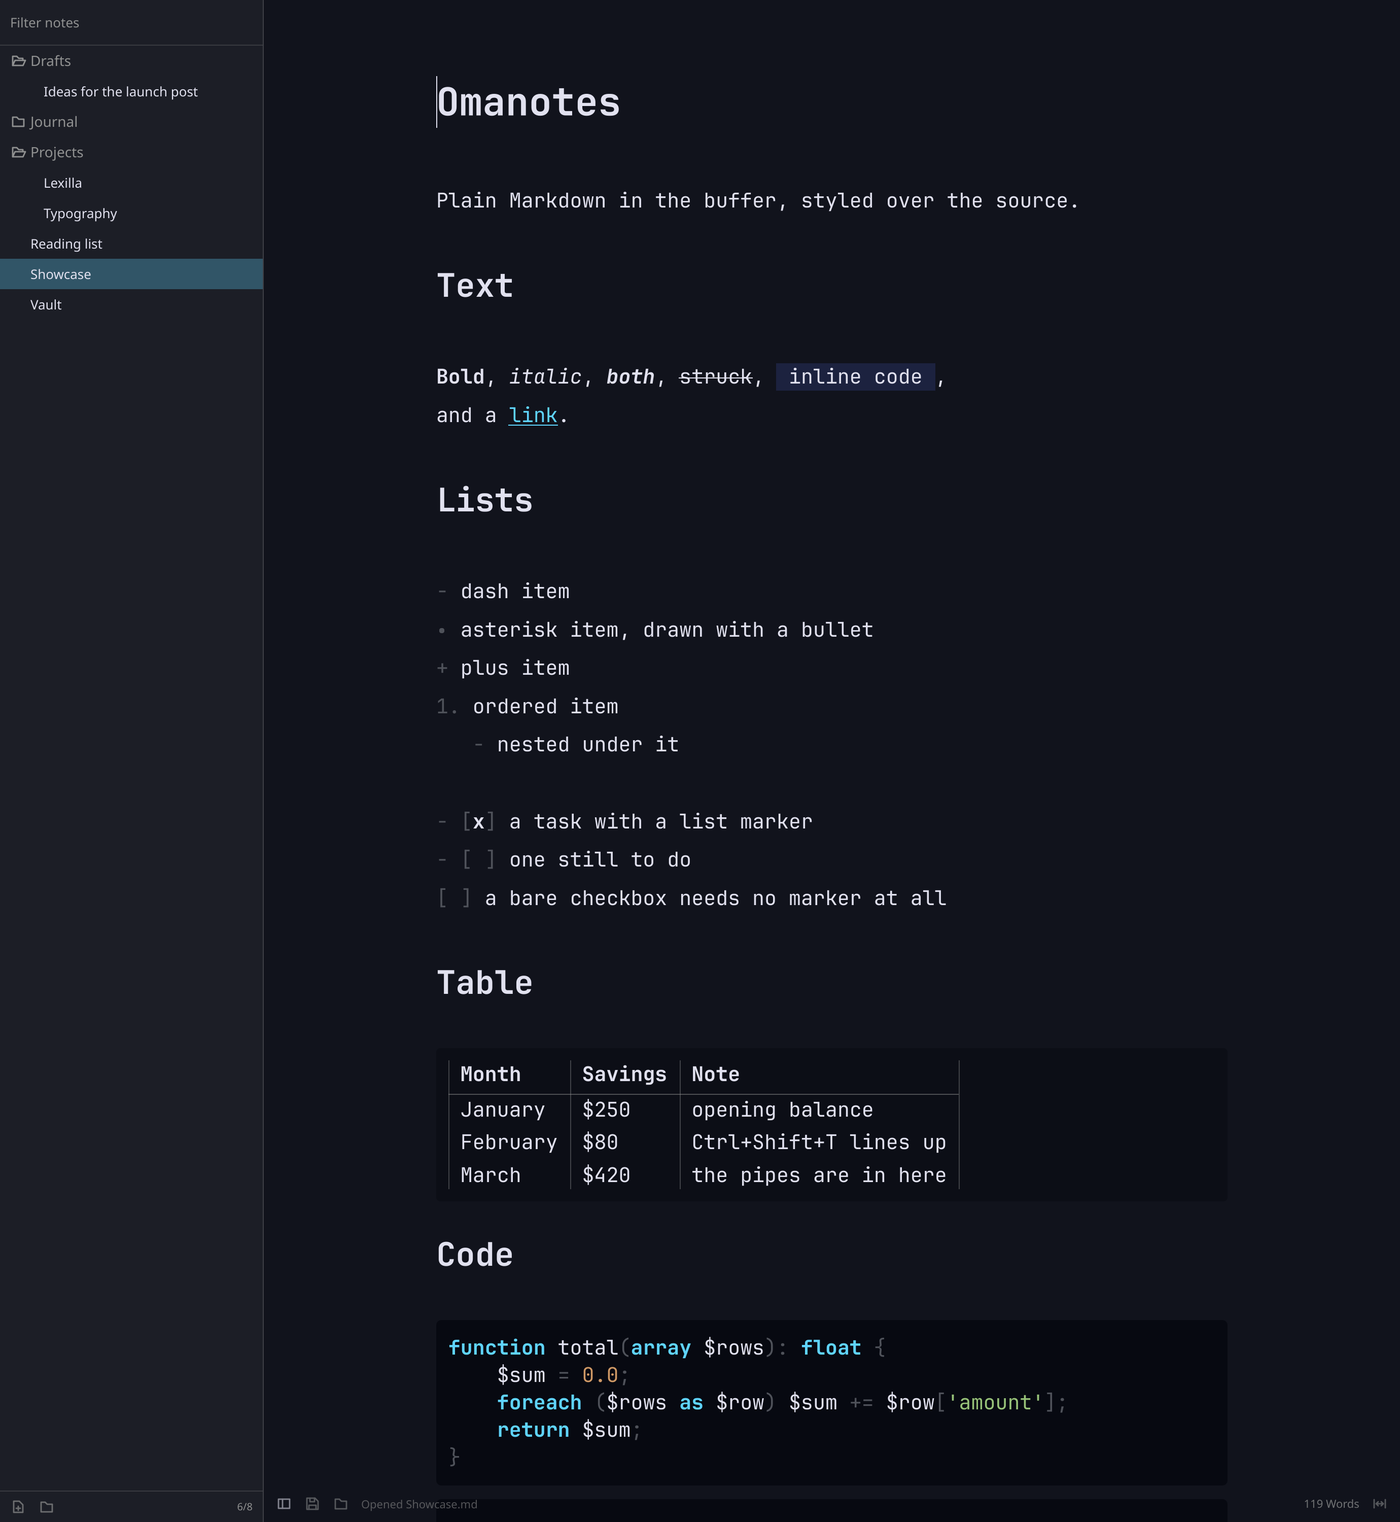
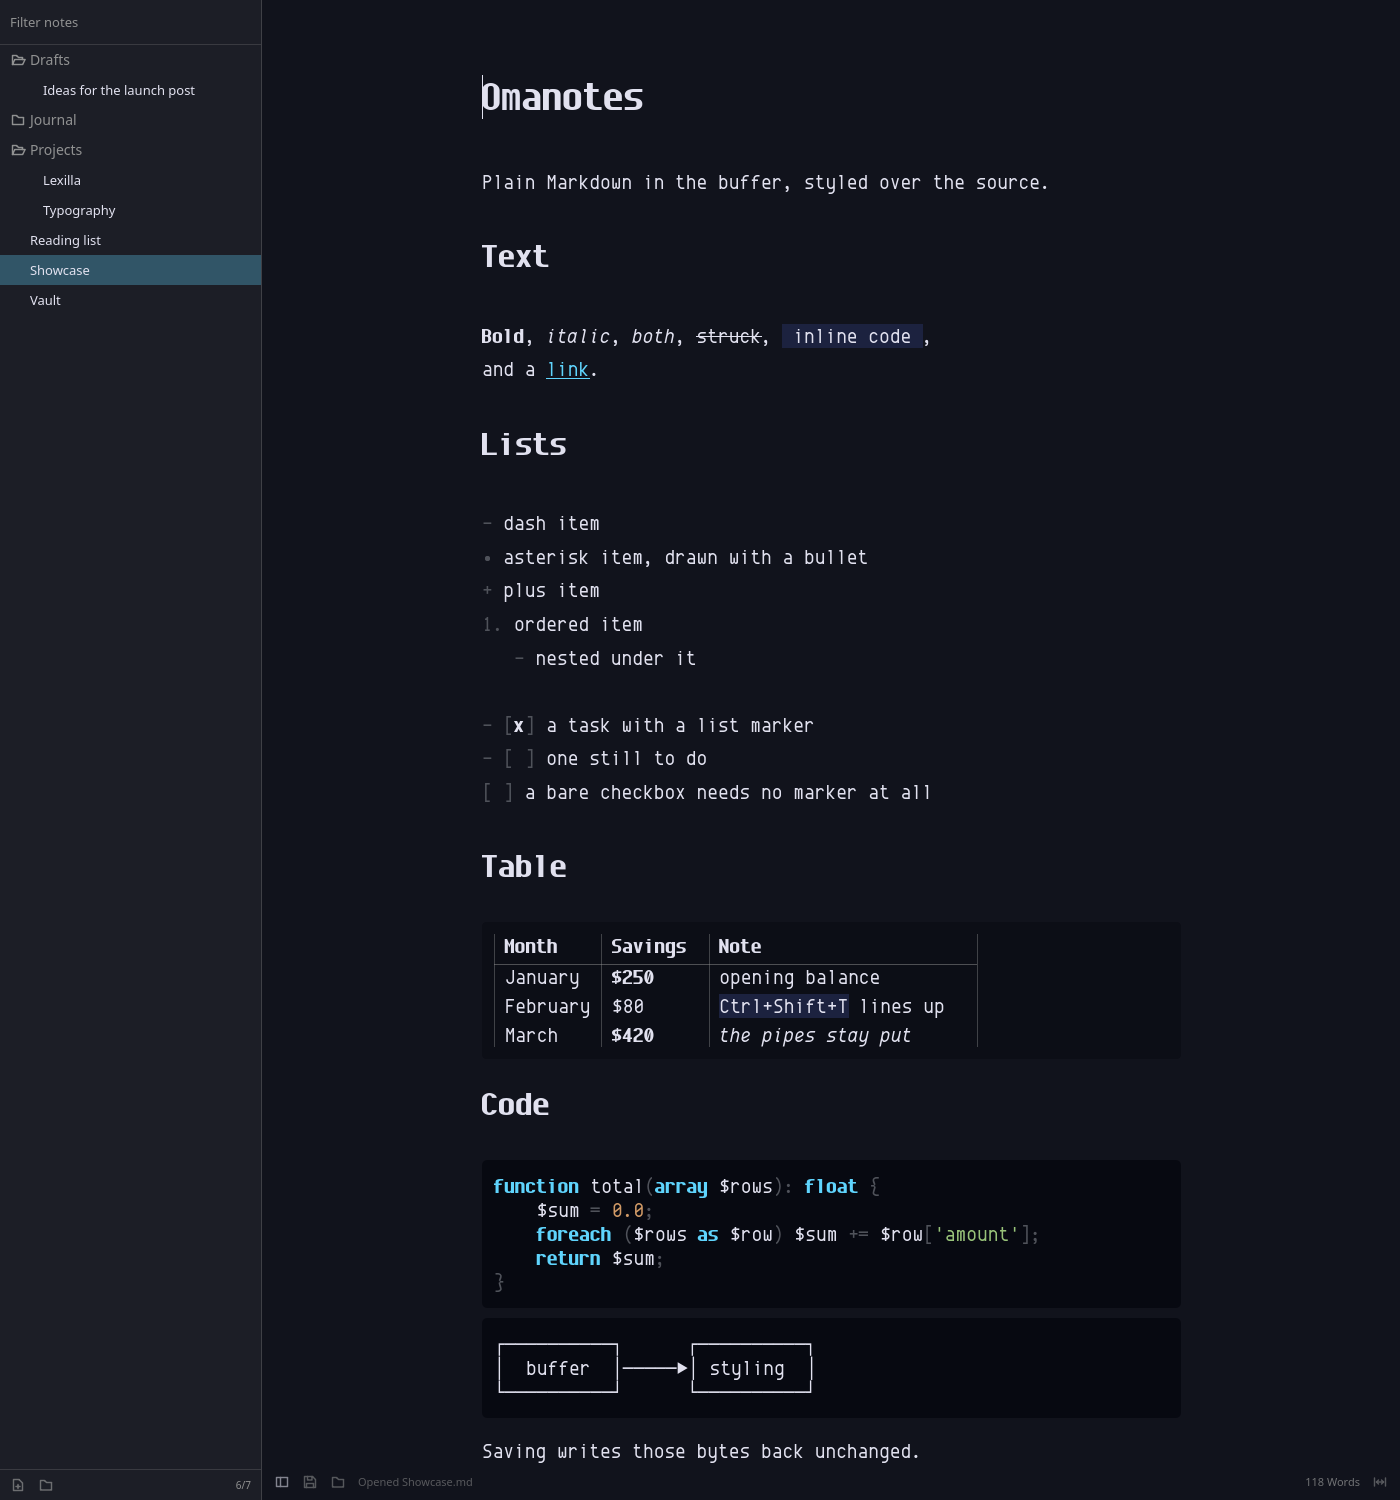
Style what is inside a table cell
A cell was left as source, so a table of `**24000**` and `**dynamic**`
read as asterisks. The reason was alignment: a column only lines up
while every glyph on the row has the same advance.

Styling turns out not to be the threat. Every monospace family measured
keeps one advance across all four of its faces, JetBrains Mono NL and
the system fonts alike, so bold and italic move nothing. What moves a
pipe is the markers leaving the line, so they do not leave it: each one
is dropped to zero width and the width it gave up is added to the space
the aligner left at the end of its own cell. The cell's content starts
where an unstyled cell's does, the pipe stays where it was, and the
slack collects in padding that was already there.

The width goes to one space as a whole multiple of its own advance
rather than being spread over the run as a fraction: Qt rounds an
advance to a 64th of a pixel, and a fraction per row leaves a column
visibly ragged. A percentage of the glyph's own advance also needs no
metric, so it holds at any zoom. A row nobody has aligned has no padding
to give, so its markers keep their width and only stop painting.

The arithmetic is per cell, between one pipe and the next, so what is
folded and what is widened are always in the same cell. A pipe inside a
code span splits a cell in two and each half still balances.

Highlighting 1,500 marked-up table rows costs 84 ms against 54, which is
20 microseconds a row.

diff --git a/src/markdownhighlighter.cpp b/src/markdownhighlighter.cpp
@@ -486,6 +486,16 @@ void MarkdownHighlighter::rebuildFormats() {
     m_tableHeaderFormat = m_tableFormat;
     m_tableHeaderFormat.setFontWeight(QFont::Bold);
 
+    // What a marker inside a table cell has to give back to come out at zero
+    // width. Measured in the table's own family, not the editor's: the two are
+    // often different fonts, and a metric off by a fraction of a pixel per
+    // marker walks the pipes out of line down a long table.
+    QFont tableMarkerFont;
+    tableMarkerFont.setFamilies(m_tableFamilies);
+    tableMarkerFont.setPointSizeF(1.0);
+    m_tableMarkerSpacing =
+        -QFontMetricsF(tableMarkerFont).horizontalAdvance(QLatin1Char('*'));
+
     m_quoteFormat = QTextCharFormat();
     m_quoteFormat.setForeground(quote);
     m_quoteFormat.setFontItalic(true);
@@ -672,25 +682,121 @@ bool MarkdownHighlighter::highlightTableRow(const QString &text) {
     }
 
     // The row above a separator is the header.
-    if (isTableSeparator(currentBlock().next().text())) {
-        setFormat(0, text.length(), m_tableHeaderFormat);
-        for (int i = 0; i < text.length(); ++i) {
-            if (text.at(i) == QLatin1Char('|'))
-                setFormat(i, 1, pipeFormat);
-        }
-        return true;
-    }
+    const bool header = isTableSeparator(currentBlock().next().text());
+    setFormat(0, text.length(), header ? m_tableHeaderFormat : m_tableFormat);
 
-    // Columns only line up while nothing on the line changes an advance width,
-    // so inline styling does not run over a table row. inlineMarkup() skips
-    // table rows for the same reason, which keeps the caret and the hidden
-    // markers in agreement.
-    setFormat(0, text.length(), m_tableFormat);
+    // A monospace font has one advance across all four of its faces, so bold
+    // and italic move nothing on their own; what would move a pipe is the
+    // markers going away, and foldMarkersInCell() gives that width back. While
+    // the caret is in the table the whole of it reads as source instead.
+    if (!active)
+        highlightTableMarkup(text);
+
     for (int i = 0; i < text.length(); ++i) {
         if (text.at(i) == QLatin1Char('|'))
             setFormat(i, 1, pipeFormat);
     }
     return true;
+}
+
+void MarkdownHighlighter::highlightTableMarkup(const QString &text) {
+    const QList<InlineMarkup> markup = inlineMarkup(text);
+    QList<Span> markers;
+    for (const InlineMarkup &item : markup) {
+        if (item.kind == InlineKind::Heading)
+            continue;
+
+        QTextCharFormat merged = format(item.content.start);
+        switch (item.kind) {
+        case InlineKind::Bold:
+            merged.setFontWeight(QFont::Bold);
+            break;
+        case InlineKind::Italic:
+            merged.setFontItalic(true);
+            break;
+        case InlineKind::BoldItalic:
+            merged.setFontWeight(QFont::Bold);
+            merged.setFontItalic(true);
+            break;
+        case InlineKind::Strikethrough:
+            merged.setFontStrikeOut(true);
+            break;
+        case InlineKind::Link:
+        case InlineKind::Image:
+            merged.setFontUnderline(true);
+            merged.setForeground(m_linkFormat.foreground());
+            break;
+        case InlineKind::Code:
+            // The chip, but not the code font: a family with a different
+            // advance would take the column with it.
+            merged.setBackground(m_codeFormat.background());
+            break;
+        case InlineKind::Heading:
+            break;
+        }
+        setFormat(item.content.start, item.content.length, merged);
+        for (const Span &marker : item.markers) {
+            if (marker.length > 0)
+                markers.append(marker);
+        }
+    }
+
+    // A cell runs from one pipe to the next.
+    int cellStart = 0;
+    for (int i = 0; i <= text.length(); ++i) {
+        if (i < text.length() && text.at(i) != QLatin1Char('|'))
+            continue;
+        foldMarkersInCell(text, cellStart, i, markers);
+        cellStart = i + 1;
+    }
+}
+
+// Markup in a table cell has to disappear without moving a pipe. Dropping the
+// markers to zero width would pull the rest of the row left, so the width they
+// give up is handed to the space the aligner left at the end of the cell: every
+// cell still starts at its column, whether or not it is styled, and the slack
+// collects where padding already is.
+//
+// That space is widened by a whole multiple of its own advance rather than by a
+// pixel figure, so the arithmetic needs no metric and holds at any zoom. Spread
+// over the whole run of padding it would be a fraction instead, and Qt rounds an
+// advance to a 64th of a pixel: a few rows of that and the column is ragged. A
+// cell with no padding to give (a row nobody has aligned) keeps its markers at
+// full width, painted transparent.
+void MarkdownHighlighter::foldMarkersInCell(const QString &text, int start, int end,
+                                            const QList<Span> &markers) {
+    int hidden = 0;
+    for (const Span &marker : markers) {
+        if (marker.start >= start && marker.start + marker.length <= end)
+            hidden += marker.length;
+    }
+    if (hidden == 0)
+        return;
+
+    int padding = 0;
+    while (end - padding - 1 >= start && text.at(end - padding - 1) == QLatin1Char(' '))
+        ++padding;
+
+    for (const Span &marker : markers) {
+        if (marker.start < start || marker.start + marker.length > end)
+            continue;
+        QTextCharFormat blank = format(marker.start);
+        blank.setForeground(QColor(Qt::transparent));
+        if (padding > 0) {
+            blank.setFontPointSize(1.0);
+            blank.setFontLetterSpacingType(QFont::AbsoluteSpacing);
+            blank.setFontLetterSpacing(m_tableMarkerSpacing);
+        }
+        setFormat(marker.start, marker.length, blank);
+    }
+
+    if (padding == 0)
+        return;
+
+    QTextCharFormat wide = format(end - 1);
+    wide.setFontLetterSpacingType(QFont::PercentageSpacing);
+    wide.setFontLetterSpacing(100.0 * (1 + hidden));
+    setFormat(end - 1, 1, wide);
 }
 
 void MarkdownHighlighter::highlightSearch(const QString &text) {
@@ -884,9 +990,10 @@ void MarkdownHighlighter::highlightInline(const QString &text) {
 QList<MarkdownHighlighter::InlineMarkup>
 MarkdownHighlighter::inlineMarkup(const QString &text, bool insideFencedCode) {
     QList<InlineMarkup> markup;
-    // Code is not Markdown, and a table row is left alone so its columns stay
-    // aligned. Neither hides a marker, so neither may report one.
-    if (insideFencedCode || isFenceLine(text) || isTableRow(text))
+    // Code is not Markdown, and it hides no marker, so it may report none.
+    // A table row does report its markup: the row is styled, and its markers
+    // are painted invisibly rather than folded away, so nothing moves.
+    if (insideFencedCode || isFenceLine(text))
         return markup;
 
     if (!text.contains(QLatin1Char('*')) && !text.contains(QLatin1Char('_'))

diff --git a/tests/tst_omanotes.cpp b/tests/tst_omanotes.cpp
@@ -1413,10 +1413,10 @@ private slots:
         // The row above the separator is the header, so it is bold as a whole.
         QCOMPARE(formatAt(document, 0, 2).fontWeight(), int(QFont::Bold));
 
-        // Emphasis inside a body cell is left as source, so columns stay
-        // aligned, and no marker is hidden there either.
+        // Emphasis inside a cell is styled like anywhere else; a cell with
+        // none of it is not.
         QVERIFY(formatAt(document, 2, 2).fontWeight() != int(QFont::Bold));
-        QVERIFY(MarkdownHighlighter::inlineMarkup(row).isEmpty());
+        QCOMPARE(MarkdownHighlighter::inlineMarkup(row).size(), 1);
         QCOMPARE(formatAt(document, 3, 8).fontWeight(), int(QFont::Bold));
 
         // The separator collapses only where a rule is drawn in its place, so
@@ -1431,6 +1431,84 @@ private slots:
 
         // Pipes are dimmed away from the content.
         QVERIFY(formatAt(document, 0, 0).foreground() != formatAt(document, 0, 2).foreground());
+    }
+
+    // A cell is styled like any other text. What would move a pipe is not the
+    // styling, since a monospace font has one advance across all four of its
+    // faces, but the markers coming out of the line, so the width they give up
+    // goes to the padding at the end of the cell they were in.
+    void tableCellsCarryTheirFormatting() {
+        QTextDocument document;
+        document.setDefaultFont(bodyFont());
+        MarkdownHighlighter highlighter(&document);
+        setDocumentText(document, QStringLiteral(
+            "| aaaaaaaaa | b |\n"
+            "|-----------|---|\n"
+            "| **bold**  | c |\n"
+            "| _slant_   | d |\n"
+            "| `code`    | e |\n"));
+
+        const auto lineWidth = [&document](int line) {
+            return document.findBlockByNumber(line).layout()->lineAt(0).naturalTextWidth();
+        };
+        const auto xOf = [&document](int line, int column) {
+            return document.findBlockByNumber(line).layout()->lineAt(0).cursorToX(column);
+        };
+        // The alignment guarantee: same characters, same width, whatever the
+        // markup does to them.
+        QCOMPARE(lineWidth(2), lineWidth(0));
+        QCOMPARE(lineWidth(3), lineWidth(0));
+        QCOMPARE(lineWidth(4), lineWidth(0));
+
+        // And the second pipe of every row sits under the second pipe of the
+        // header, so the column is a straight line down the page.
+        QCOMPARE(xOf(2, 12), xOf(0, 12));
+        QCOMPARE(xOf(3, 12), xOf(0, 12));
+        QCOMPARE(xOf(4, 12), xOf(0, 12));
+
+        // `| **bold**  | c |`: the content is bold, and it starts where the
+        // header's does. The markers around it take no width at all; the two
+        // characters they gave up are added to the padding at the end of the
+        // cell, which is what keeps the pipe in place.
+        QCOMPARE(formatAt(document, 2, 4).fontWeight(), int(QFont::Bold));
+        QCOMPARE(xOf(2, 4), xOf(0, 2));
+        const QTextCharFormat marker = formatAt(document, 2, 2);
+        QCOMPARE(marker.foreground().color().alpha(), 0);
+        QCOMPARE(marker.fontLetterSpacingType(), int(QFont::AbsoluteSpacing));
+        QVERIFY(marker.fontLetterSpacing() < 0.0);
+        const QTextCharFormat pad = formatAt(document, 2, 11);
+        QCOMPARE(pad.fontLetterSpacingType(), int(QFont::PercentageSpacing));
+        QCOMPARE(pad.fontLetterSpacing(), 500.0);
+
+        QVERIFY(formatAt(document, 3, 4).fontItalic());
+
+        // A code span keeps the chip but not the code font: a family with a
+        // different advance would take the column with it.
+        const QTextCharFormat code = formatAt(document, 4, 4);
+        const QTextCharFormat plain = formatAt(document, 0, 4);
+        QVERIFY(code.background() != plain.background());
+        QCOMPARE(code.fontFamilies().toStringList(), plain.fontFamilies().toStringList());
+
+        // Pipes are still pipes, not part of a cell's styling.
+        QVERIFY(formatAt(document, 2, 0).foreground() != formatAt(document, 2, 4).foreground());
+
+        // The caret in the table puts the whole of it back to source.
+        highlighter.setRevealedRange(0, 4);
+        QCOMPARE(formatAt(document, 2, 4).fontWeight(), int(QFont::Normal));
+        QVERIFY(formatAt(document, 2, 2).foreground().color().alpha() > 0);
+        highlighter.setRevealedRange(-1, -1);
+        QCOMPARE(formatAt(document, 2, 4).fontWeight(), int(QFont::Bold));
+
+        // A row nobody has aligned has no padding to hand the width to, so its
+        // markers keep their cell and only stop painting.
+        setDocumentText(document, QStringLiteral(
+            "|a|**b**|\n"
+            "|-|-|\n"
+            "|c|**d**|\n"));
+        const QTextCharFormat tight = formatAt(document, 2, 3);
+        QCOMPARE(tight.foreground().color().alpha(), 0);
+        QVERIFY(!tight.hasProperty(QTextFormat::FontLetterSpacing));
+        QCOMPARE(lineWidth(2), lineWidth(0));
     }
 
     // A hidden marker cancels its own advance, which is right for `**` but

diff --git a/src/backend.cpp b/src/backend.cpp
@@ -500,10 +500,14 @@ QVariantList Backend::hiddenRangesAt(int position) const {
     const int lineStart = block.position();
     QList<QPair<int, int>> spans;
     // A line inside a fence has no hidden markers, so the caret must not skip
-    // over the asterisks in a shell glob.
+    // over the asterisks in a shell glob. Nor does a table row: the caret being
+    // in the table is what puts it back to source, markers and all, so there is
+    // nothing there to skip over.
     const QList<MarkdownHighlighter::InlineMarkup> markup =
-        MarkdownHighlighter::inlineMarkup(
-            block.text(), MarkdownHighlighter::isFencedState(block.userState()));
+        MarkdownHighlighter::isTableRow(block.text())
+            ? QList<MarkdownHighlighter::InlineMarkup>()
+            : MarkdownHighlighter::inlineMarkup(
+                  block.text(), MarkdownHighlighter::isFencedState(block.userState()));
     for (const MarkdownHighlighter::InlineMarkup &item : markup) {
         for (const MarkdownHighlighter::Span &marker : item.markers) {
             spans.append({lineStart + marker.start,

diff --git a/src/markdownhighlighter.h b/src/markdownhighlighter.h
@@ -137,6 +137,8 @@ private:
     int highlightCode(const QString &text, int languageIndex, int previousState);
     int languageIndexFor(const QString &language);
     bool highlightTableRow(const QString &text);
+    void highlightTableMarkup(const QString &text);
+    void foldMarkersInCell(const QString &text, int start, int end, const QList<Span> &markers);
     bool highlightMarkers(const QString &text);
     void highlightSetextContent(const QString &text);
     void highlightInline(const QString &text);
@@ -174,6 +176,7 @@ private:
     QTextCharFormat m_tablePipeFormat;
     QTextCharFormat m_tableSeparatorFormat;
     QTextCharFormat m_tableHeaderFormat;
+    qreal m_tableMarkerSpacing = 0.0;
     QTextCharFormat m_quoteFormat;
     QTextCharFormat m_linkFormat;
     QList<int> m_pendingSetextBlocks;

diff --git a/README.md b/README.md
@@ -29,7 +29,8 @@ per-note drafts and the typography knobs described below.
 - Syntax highlighting inside fenced blocks, from a statically linked Lexilla
 - A vault sidebar: folder tree, filter, and content search through ripgrep
 - Per-note drafts that survive switching notes, closing the window and a crash
-- Tables padded into alignment on request, never on open
+- Tables padded into alignment on request, never on open, with cells that
+  carry their own bold, italic, links and code spans
 - Follows the desktop palette, dark mode and text size
 - Zoom, column width, fonts and line heights all in a plain INI file
 
@@ -137,6 +138,15 @@ rewritten to the same bytes.
 Column rules are drawn only through a table that lines up: half a grid reads
 worse than none. A table with no grid keeps everything it was written with, the
 separator row included, because there is no rule drawn to stand in for it.
+
+Cells carry bold, italic, strikethrough, links and code spans like the rest of a
+note. A column lines up because every glyph on the row has the same advance, and
+a monospace family keeps one advance across all four of its faces, so the styling
+itself moves nothing; the markers around it do go away, and the width they give
+up is added to the padding at the end of their own cell. Every cell therefore
+starts at its column, styled or not, and the pipes stay where the aligner put
+them. A row nobody has aligned has no padding to give, so its markers keep their
+width and only stop painting.
 
 ## The vault
 

diff --git a/contrib/showcase.md b/contrib/showcase.md
@@ -21,11 +21,11 @@ and a [link](https://github.com/cristian-fleischer/omanotes).
 
 ## Table
 
-| Month    | Savings | Note                  |
-|----------|---------|-----------------------|
-| January  | $250    | opening balance       |
-| February | $80     | Ctrl+Shift+T lines up |
-| March    | $420    | the pipes are in here |
+| Month    | Savings  | Note                    |
+|----------|----------|-------------------------|
+| January  | **$250** | opening balance         |
+| February | $80      | `Ctrl+Shift+T` lines up |
+| March    | **$420** | _the pipes stay put_    |
 
 ## Code
 
